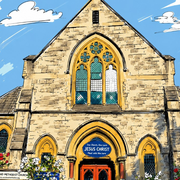
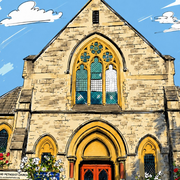
Swap the church illustration for the version without the plaque.

diff --git a/index.html b/index.html
@@ -17,8 +17,8 @@
 <meta property="og:title" content="Wanstead Methodist Church, available for classes, clubs, rehearsals &amp; more">
 <meta property="og:description" content="A hall on Hermon Hill with a theatre stage, extra spaces and a kitchen.">
 <meta property="og:url" content="https://wansteadmethodists.org.uk/">
-<meta property="og:image" content="https://wansteadmethodists.org.uk/assets/social-share.jpg?v=2">
-<meta property="og:image:secure_url" content="https://wansteadmethodists.org.uk/assets/social-share.jpg?v=2">
+<meta property="og:image" content="https://wansteadmethodists.org.uk/assets/social-share.jpg?v=3">
+<meta property="og:image:secure_url" content="https://wansteadmethodists.org.uk/assets/social-share.jpg?v=3">
 <meta property="og:image:type" content="image/jpeg">
 <meta property="og:image:width" content="1200">
 <meta property="og:image:height" content="630">
@@ -26,13 +26,13 @@
 <meta property="og:locale" content="en_GB">
 <meta itemprop="name" content="Wanstead Methodist Church, available for classes, clubs, rehearsals &amp; more">
 <meta itemprop="description" content="A hall on Hermon Hill with a theatre stage, extra spaces and a kitchen.">
-<meta itemprop="image" content="https://wansteadmethodists.org.uk/assets/social-share.jpg?v=2">
+<meta itemprop="image" content="https://wansteadmethodists.org.uk/assets/social-share.jpg?v=3">
 
 <!-- Twitter Card -->
 <meta name="twitter:card" content="summary_large_image">
 <meta name="twitter:title" content="Wanstead Methodist Church, available for classes, clubs, rehearsals &amp; more">
 <meta name="twitter:description" content="A hall on Hermon Hill with a theatre stage, extra spaces and a kitchen.">
-<meta name="twitter:image" content="https://wansteadmethodists.org.uk/assets/social-share.jpg?v=2">
+<meta name="twitter:image" content="https://wansteadmethodists.org.uk/assets/social-share.jpg?v=3">
 
 <link rel="icon" href="/favicon.ico" sizes="48x48">
 <link rel="icon" type="image/png" sizes="32x32" href="/assets/favicon-32.png">
